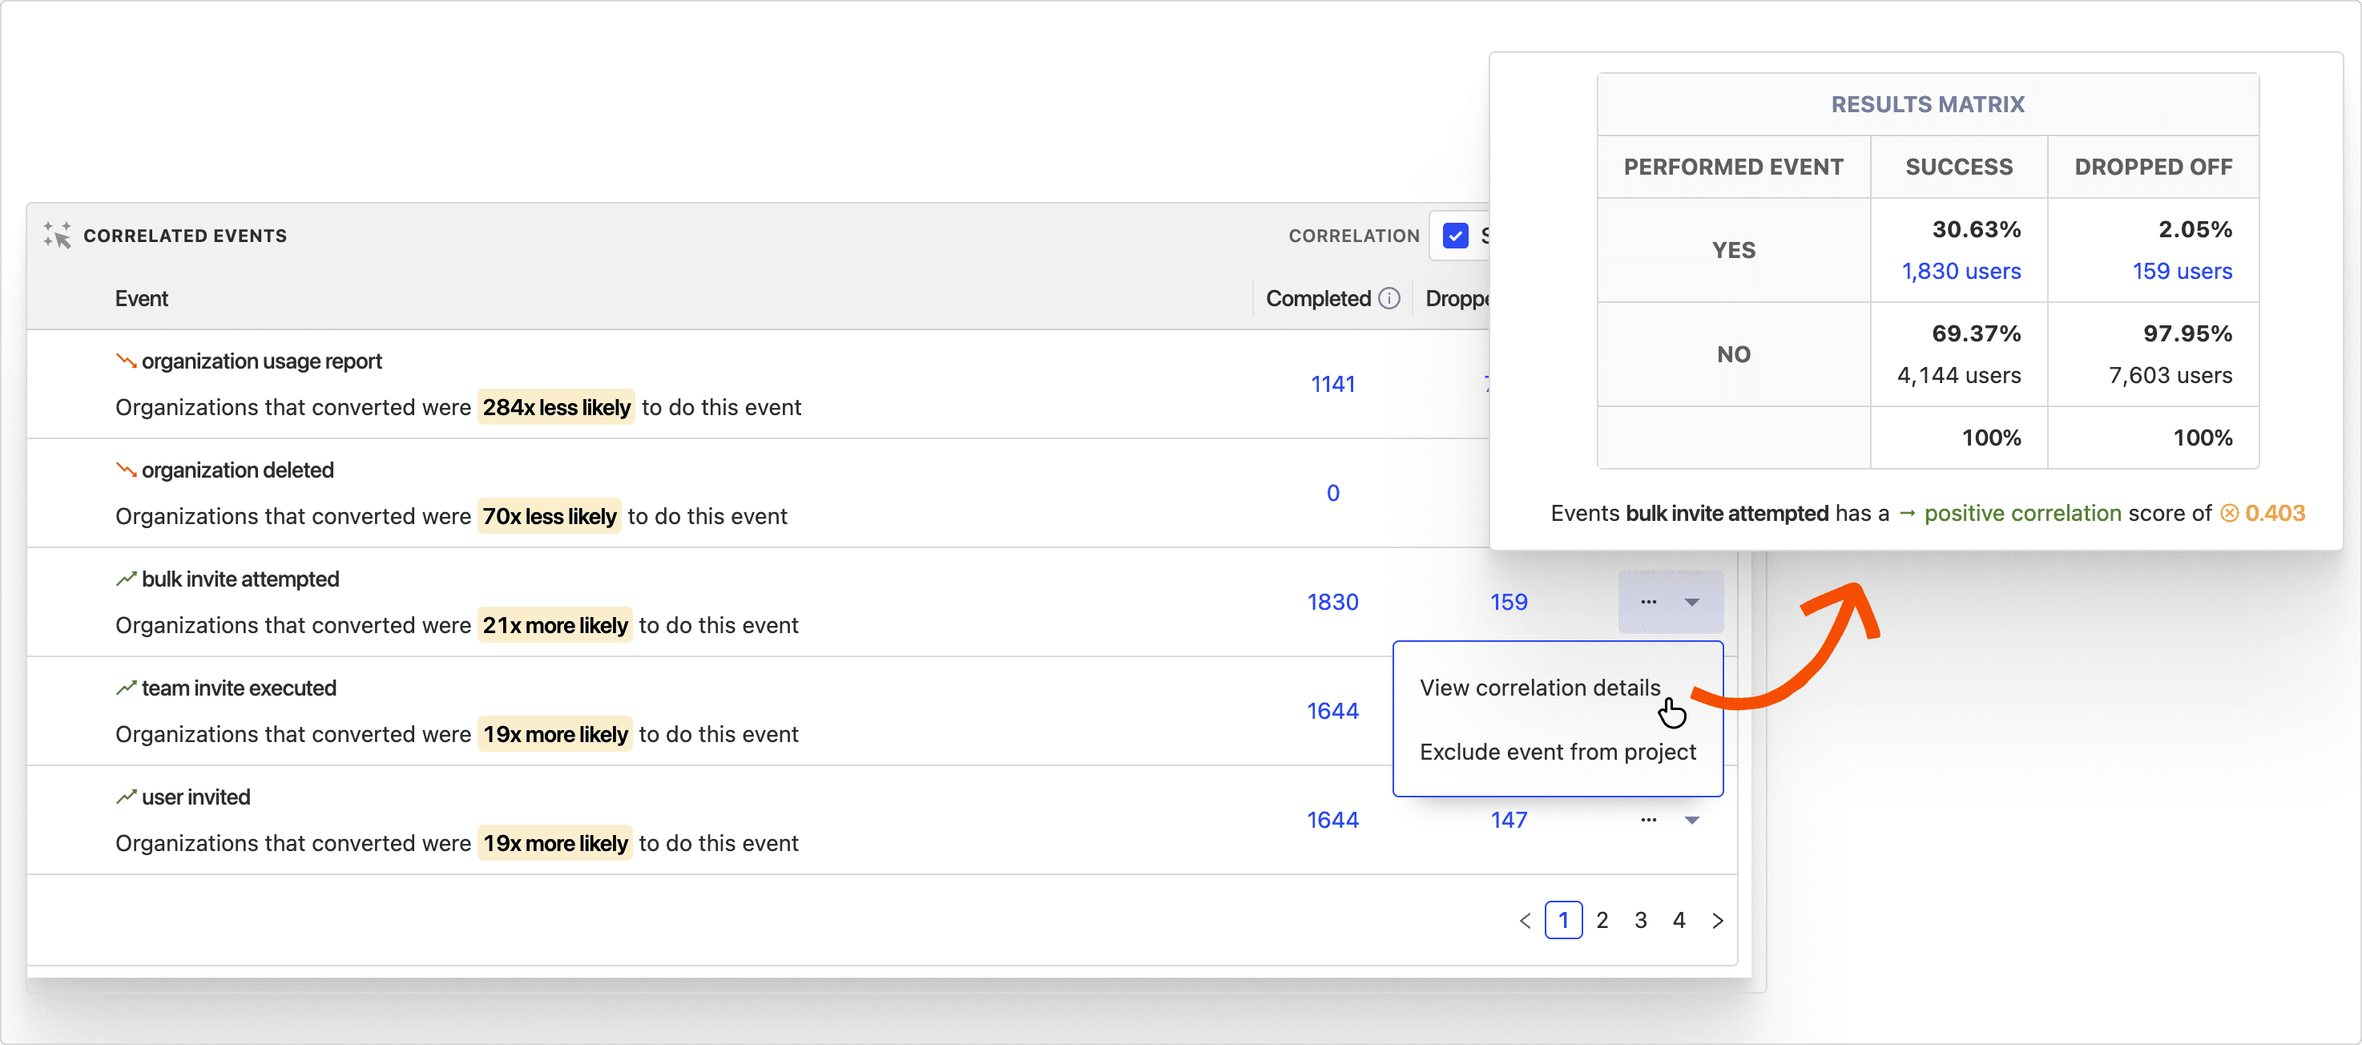
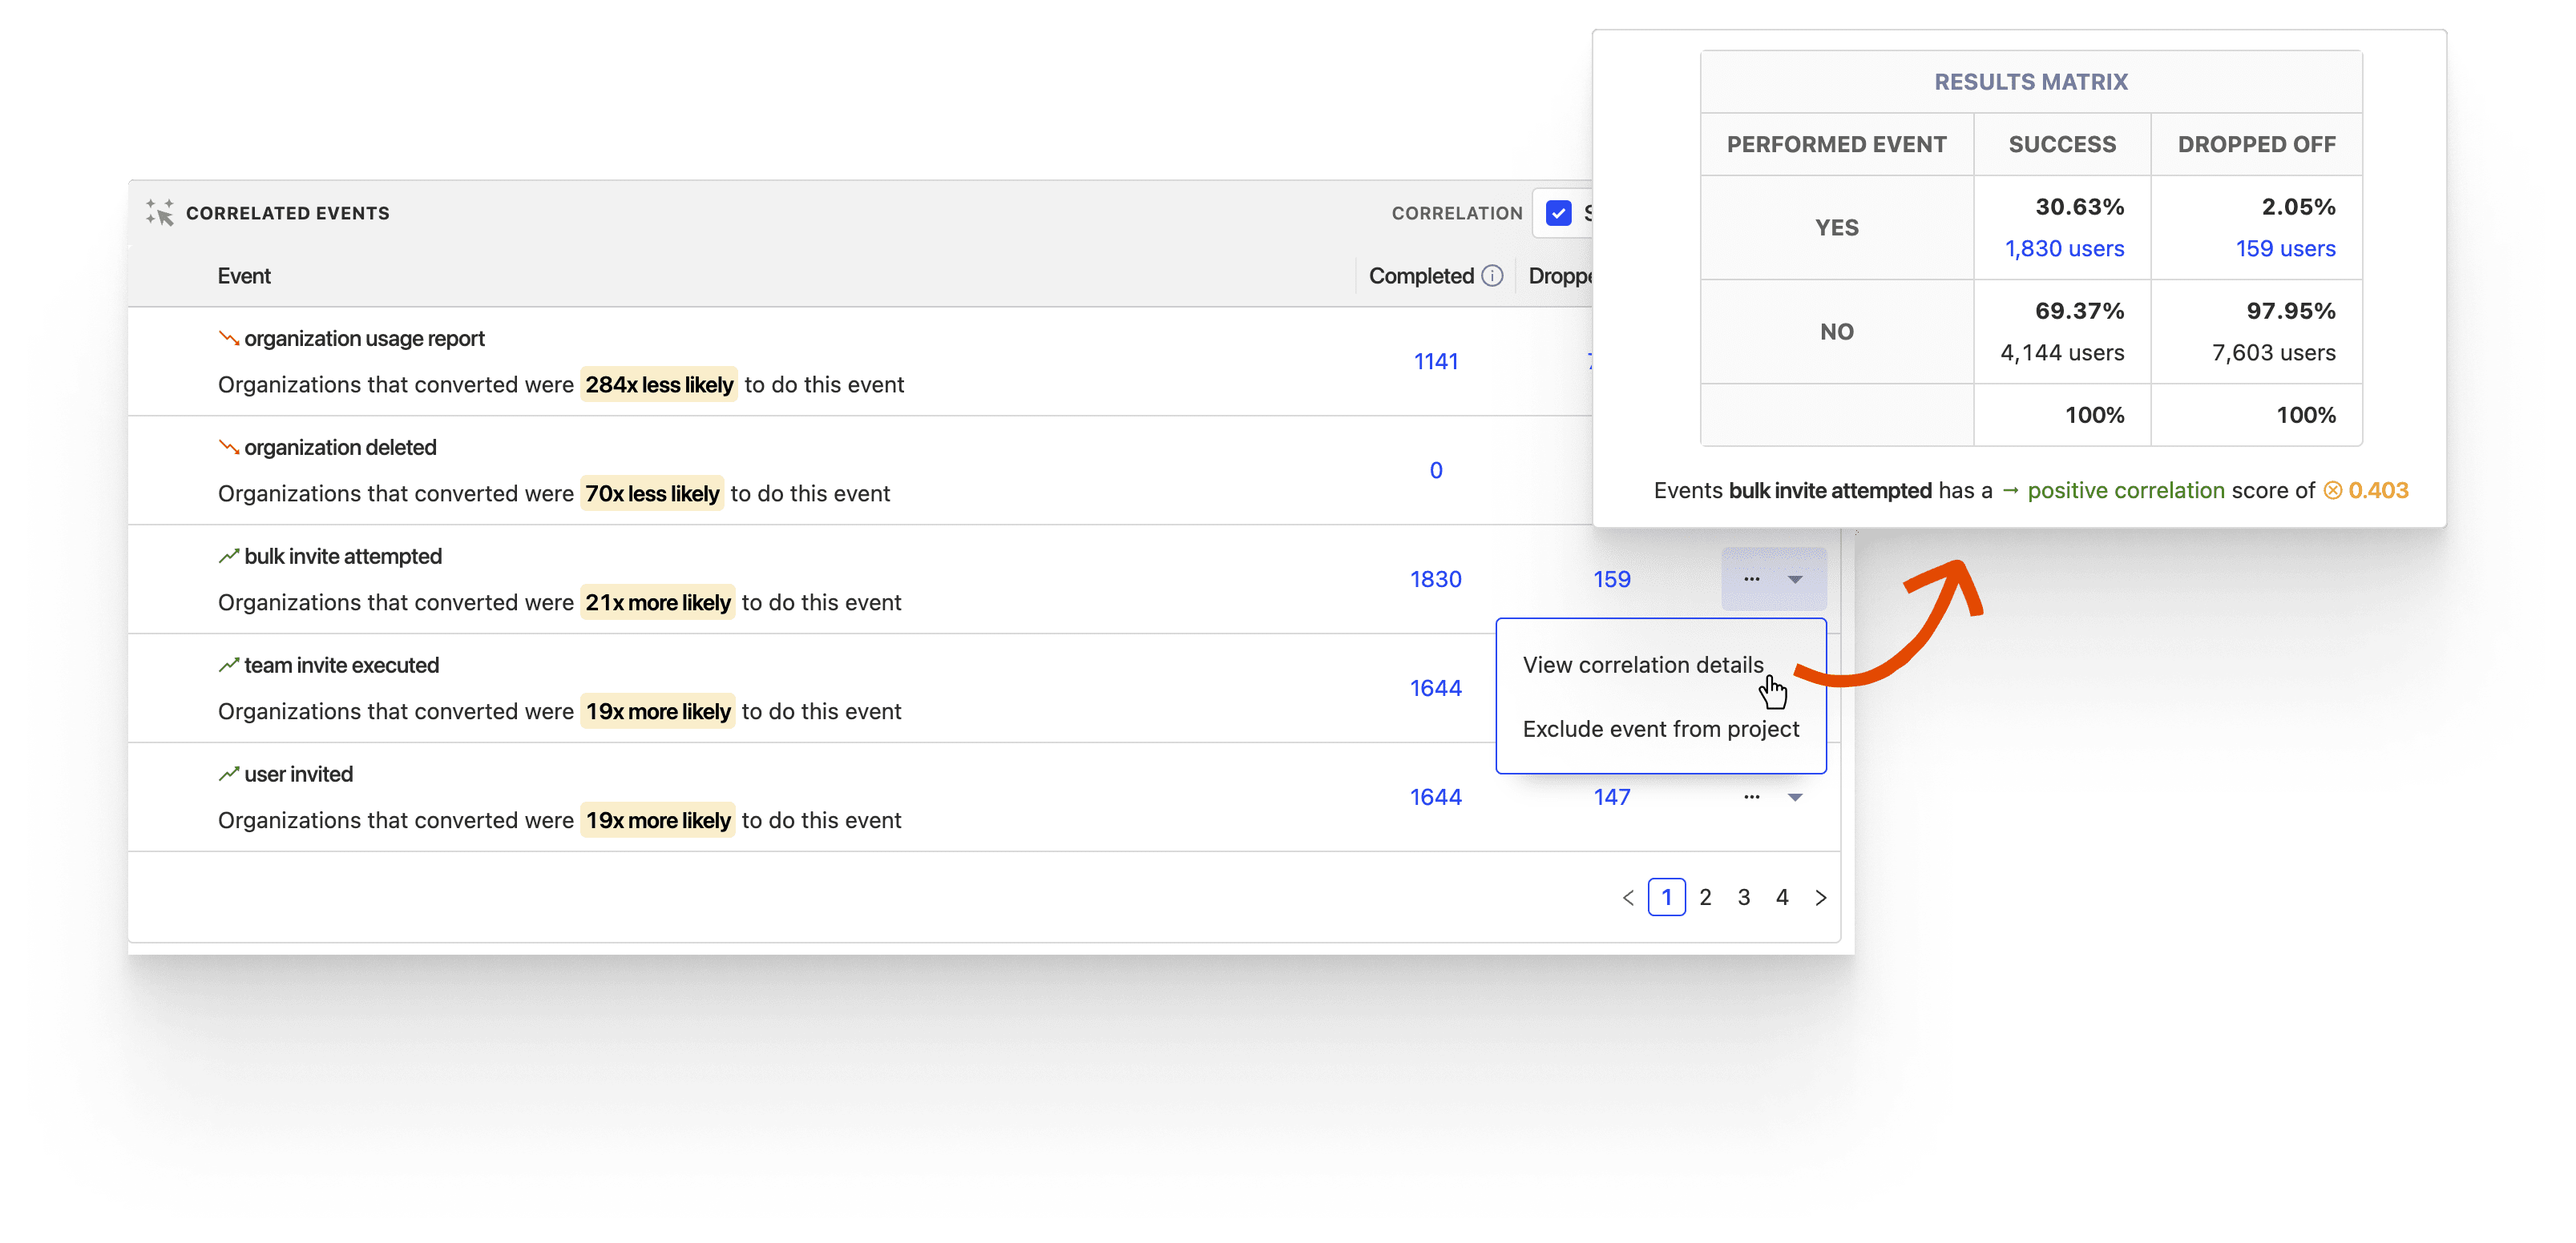
added trend images

diff --git a/src/components/Products/Slider/Slides.js b/src/components/Products/Slider/Slides.js
@@ -64,7 +64,7 @@ const ImageContainer = ({ children, className = '' }) => {
 const Subfeature = ({ name, description }) => {
     return (
         <li>
-            <h4 className="mb-0 text-lg">{name}</h4>
+            <h4 className="mb-1 text-lg leading-tight">{name}</h4>
             <p className="text-sm mb-0" dangerouslySetInnerHTML={{ __html: description }} />
         </li>
     )
@@ -157,12 +157,36 @@ export const Trends = () => {
     return (
         <div className="md:bg-accent dark:md:bg-accent-dark rounded-md text-primary dark:text-primary-dark py-8 px-8 space-y-6">
             <h2 className="text-center text-4xl">Trends</h2>
-            <div className="grid grid-cols-12 gap-4">
-                <div className="col-span-5">
-                    <StaticImage src="./images/funnel-basic.png" className="w-full shadow-xl" />
+            <div className="overflow-x-auto flex gap-8">
+                <div>
+                    <StaticImage
+                        src="../../Product/ProductAnalytics/images/screenshot-trend-bar.png"
+                        className="h-96 shadow-xl"
+                    />
                 </div>
-                <div className="col-span-7">
-                    <StaticImage src="./images/funnel-grouped.png" className="w-full shadow-xl" />
+                <div>
+                    <StaticImage
+                        src="../../Product/ProductAnalytics/images/screenshot-trend-multiple-sparklines.png"
+                        className="h-96 shadow-xl"
+                    />
+                </div>
+                <div>
+                    <StaticImage
+                        src="../../Product/ProductAnalytics/images/screenshot-trend-area.png"
+                        className="h-96 shadow-xl"
+                    />
+                </div>
+                <div>
+                    <StaticImage
+                        src="../../Product/ProductAnalytics/images/screenshot-trend-sparkline.png"
+                        className="h-96 shadow-xl"
+                    />
+                </div>
+                <div>
+                    <StaticImage
+                        src="../../Product/ProductAnalytics/images/screenshot-trend-map.png"
+                        className="h-96 shadow-xl"
+                    />
                 </div>
             </div>
 
@@ -178,35 +202,37 @@ export const Trends = () => {
 export const UserPaths = () => {
     const subfeatures = [
         {
-            name: 'Feature 1',
-            description: 'Description 1',
+            name: 'Step insights',
+            description: 'See who dropped off at each step, who did or didn’t complete a step, and the drop-off rate.',
         },
         {
-            name: 'Feature 2',
-            description: 'Description 2',
+            name: 'Wildcard groups',
+            description: 'Group similar steps into a mega-step (where any of a group of events can trigger a step).',
         },
         {
-            name: 'Feature 3',
-            description: 'Description 3',
+            name: 'Exclusion events',
+            description: 'Prevent specific events from appearing in a path.',
         },
         {
-            name: 'Feature 4',
-            description: 'Description 4',
+            name: 'Granular controls',
+            description: 'Visualize any sequence of page views, screen views or events, with up to 20 steps.',
         },
     ]
     return (
         <div className="md:bg-accent dark:md:bg-accent-dark rounded-md text-primary dark:text-primary-dark py-8 px-8 space-y-6">
-            <h2 className="text-center text-4xl">User paths</h2>
-            <div className="grid grid-cols-12 gap-4">
-                <div className="col-span-5">
-                    <StaticImage src="./images/funnel-basic.png" className="w-full shadow-xl" />
-                </div>
-                <div className="col-span-7">
-                    <StaticImage src="./images/funnel-grouped.png" className="w-full shadow-xl" />
-                </div>
+            <div className="text-center">
+                <h2 className="text-4xl mb-2">User paths</h2>
+                <p className="opacity-75 mb-2">
+                    Set start and end points to see how users navigate your product, website, or conversion funnel.
+                </p>
             </div>
 
-            <ul className="grid grid-cols-4 gap-8 list-none p-0">
+            <StaticImage
+                src="../../Product/ProductAnalytics/images/screenshot-paths.png"
+                className="w-full shadow-xl"
+            />
+
+            <ul className="grid grid-cols-4 gap-8 list-none p-0 mt-4">
                 {subfeatures.map((subfeature, index) => {
                     return <Subfeature {...subfeature} key={index} />
                 })}
@@ -236,17 +262,22 @@ export const CorrelationAnalysis = () => {
     ]
     return (
         <div className="md:bg-accent dark:md:bg-accent-dark rounded-md text-primary dark:text-primary-dark py-8 px-8 space-y-6">
-            <h2 className="text-center text-4xl">Correlation analysis</h2>
-            <div className="grid grid-cols-12 gap-4">
-                <div className="col-span-5">
-                    <StaticImage src="./images/funnel-basic.png" className="w-full shadow-xl" />
-                </div>
-                <div className="col-span-7">
-                    <StaticImage src="./images/funnel-grouped.png" className="w-full shadow-xl" />
-                </div>
+            <div className="text-center">
+                <h2 className="text-4xl mb-2">Correlation analysis</h2>
+                <p className="opacity-75 mb-2 max-w-2xl mx-auto">
+                    When analyzing funnels, correlation analysis highlights significant events or properties that may be
+                    useful in determining how likely someone is to converting or churning.
+                </p>
             </div>
 
-            <ul className="grid grid-cols-4 gap-8 list-none p-0">
+            <div className="!-mb-20">
+                <StaticImage
+                    src="../../Product/ProductAnalytics/images/screenshot-correlation-analysis.png"
+                    className="w-full"
+                />
+            </div>
+
+            <ul className="hidden grid grid-cols-3 xl:grid-cols-5 gap-8 list-none p-0">
                 {subfeatures.map((subfeature, index) => {
                     return <Subfeature {...subfeature} key={index} />
                 })}
@@ -256,37 +287,22 @@ export const CorrelationAnalysis = () => {
 }
 
 export const Retention = () => {
-    const subfeatures = [
-        {
-            name: 'Feature 1',
-            description: 'Description 1',
-        },
-        {
-            name: 'Feature 2',
-            description: 'Description 2',
-        },
-        {
-            name: 'Feature 3',
-            description: 'Description 3',
-        },
-        {
-            name: 'Feature 4',
-            description: 'Description 4',
-        },
-    ]
+    const subfeatures = []
     return (
         <div className="md:bg-accent dark:md:bg-accent-dark rounded-md text-primary dark:text-primary-dark py-8 px-8 space-y-6">
-            <h2 className="text-center text-4xl">Retention</h2>
-            <div className="grid grid-cols-12 gap-4">
-                <div className="col-span-5">
-                    <StaticImage src="./images/funnel-basic.png" className="w-full shadow-xl" />
-                </div>
-                <div className="col-span-7">
-                    <StaticImage src="./images/funnel-grouped.png" className="w-full shadow-xl" />
-                </div>
+            <div className="text-center">
+                <h2 className="text-4xl mb-2">Retention</h2>
+                <p className="opacity-75 mb-2 max-w-2xl mx-auto">
+                    See how many users return on subsequent days after first visiting your site or product.
+                </p>
             </div>
 
-            <ul className="grid grid-cols-4 gap-8 list-none p-0">
+            <StaticImage
+                src="../../Product/ProductAnalytics/images/screenshot-retention.png"
+                className="w-full shadow-xl mb-4"
+            />
+
+            <ul className="hidden grid grid-cols-3 xl:grid-cols-5 gap-8 list-none p-0">
                 {subfeatures.map((subfeature, index) => {
                     return <Subfeature {...subfeature} key={index} />
                 })}
@@ -296,37 +312,22 @@ export const Retention = () => {
 }
 
 export const Stickiness = () => {
-    const subfeatures = [
-        {
-            name: 'Feature 1',
-            description: 'Description 1',
-        },
-        {
-            name: 'Feature 2',
-            description: 'Description 2',
-        },
-        {
-            name: 'Feature 3',
-            description: 'Description 3',
-        },
-        {
-            name: 'Feature 4',
-            description: 'Description 4',
-        },
-    ]
+    const subfeatures = []
     return (
         <div className="md:bg-accent dark:md:bg-accent-dark rounded-md text-primary dark:text-primary-dark py-8 px-8 space-y-6">
-            <h2 className="text-center text-4xl">Stickiness</h2>
-            <div className="grid grid-cols-12 gap-4">
-                <div className="col-span-5">
-                    <StaticImage src="./images/funnel-basic.png" className="w-full shadow-xl" />
-                </div>
-                <div className="col-span-7">
-                    <StaticImage src="./images/funnel-grouped.png" className="w-full shadow-xl" />
-                </div>
+            <div className="text-center">
+                <h2 className="text-4xl mb-2">Stickiness</h2>
+                <p className="opacity-75 mb-2 max-w-2xl mx-auto">
+                    Learn how many times users perform a specific event in a period of time.
+                </p>
             </div>
 
-            <ul className="grid grid-cols-4 gap-8 list-none p-0">
+            <StaticImage
+                src="../../Product/ProductAnalytics/images/screenshot-stickiness.png"
+                className="w-full shadow-xl mb-4"
+            />
+
+            <ul className="hidden grid grid-cols-3 xl:grid-cols-5 gap-8 list-none p-0">
                 {subfeatures.map((subfeature, index) => {
                     return <Subfeature {...subfeature} key={index} />
                 })}
@@ -336,37 +337,23 @@ export const Stickiness = () => {
 }
 
 export const Lifecycle = () => {
-    const subfeatures = [
-        {
-            name: 'Feature 1',
-            description: 'Description 1',
-        },
-        {
-            name: 'Feature 2',
-            description: 'Description 2',
-        },
-        {
-            name: 'Feature 3',
-            description: 'Description 3',
-        },
-        {
-            name: 'Feature 4',
-            description: 'Description 4',
-        },
-    ]
+    const subfeatures = []
     return (
         <div className="md:bg-accent dark:md:bg-accent-dark rounded-md text-primary dark:text-primary-dark py-8 px-8 space-y-6">
-            <h2 className="text-center text-4xl">Lifecycle</h2>
-            <div className="grid grid-cols-12 gap-4">
-                <div className="col-span-5">
-                    <StaticImage src="./images/funnel-basic.png" className="w-full shadow-xl" />
-                </div>
-                <div className="col-span-7">
-                    <StaticImage src="./images/funnel-grouped.png" className="w-full shadow-xl" />
-                </div>
+            <div className="text-center">
+                <h2 className="text-4xl mb-2">Lifecycle</h2>
+                <p className="opacity-75 mb-2 max-w-2xl mx-auto">
+                    Discover how your active users break down, highlighting those who have recently stopped being active
+                    or those who have just become active for the first time.
+                </p>
             </div>
 
-            <ul className="grid grid-cols-4 gap-8 list-none p-0">
+            <StaticImage
+                src="../../Product/ProductAnalytics/images/screenshot-lifecycle.png"
+                className="w-full shadow-xl mb-4"
+            />
+
+            <ul className="hidden grid grid-cols-3 xl:grid-cols-5 gap-8 list-none p-0">
                 {subfeatures.map((subfeature, index) => {
                     return <Subfeature {...subfeature} key={index} />
                 })}
@@ -378,35 +365,42 @@ export const Lifecycle = () => {
 export const Dashboards = () => {
     const subfeatures = [
         {
-            name: 'Feature 1',
-            description: 'Description 1',
+            name: 'Dashboard filtering',
+            description:
+                'Filter saved insights on a dashboard by anything - event properties, user properties, cohorts - even if a feature flag was active during a user’s session.',
         },
         {
-            name: 'Feature 2',
-            description: 'Description 2',
+            name: 'Embeddable dashboards with auto-refresh',
+            description:
+                'Embed a dashboard iframe and always have near-realtime data - great for showing KPIs on a TV.',
         },
         {
-            name: 'Feature 3',
-            description: 'Description 3',
+            name: 'Weekly updates by Slack or email',
+            description:
+                'Send dashboard updates to a Slack channel or to colleagues via email at any recurring frequency.',
         },
         {
-            name: 'Feature 4',
-            description: 'Description 4',
+            name: 'Access restrictions',
+            description: 'Limit dashboard access with role-based permissions or using private projects.',
+        },
+        {
+            name: 'Customizable layouts',
+            description: 'Configure how many insights appear per row or column.',
         },
     ]
     return (
         <div className="md:bg-accent dark:md:bg-accent-dark rounded-md text-primary dark:text-primary-dark py-8 px-8 space-y-6">
-            <h2 className="text-center text-4xl">Dashboards</h2>
-            <div className="grid grid-cols-12 gap-4">
-                <div className="col-span-5">
-                    <StaticImage src="./images/funnel-basic.png" className="w-full shadow-xl" />
-                </div>
-                <div className="col-span-7">
-                    <StaticImage src="./images/funnel-grouped.png" className="w-full shadow-xl" />
-                </div>
+            <div className="text-center">
+                <h2 className="text-4xl mb-2">Dashboards</h2>
+                <p className="opacity-75 mb-2">(They're exactly what they sound like.)</p>
             </div>
 
-            <ul className="grid grid-cols-4 gap-8 list-none p-0">
+            <StaticImage
+                src="../../Product/ProductAnalytics/images/screenshot-dashboards.png"
+                className="w-full shadow-xl mb-4"
+            />
+
+            <ul className="grid grid-cols-3 xl:grid-cols-5 gap-8 list-none p-0">
                 {subfeatures.map((subfeature, index) => {
                     return <Subfeature {...subfeature} key={index} />
                 })}
